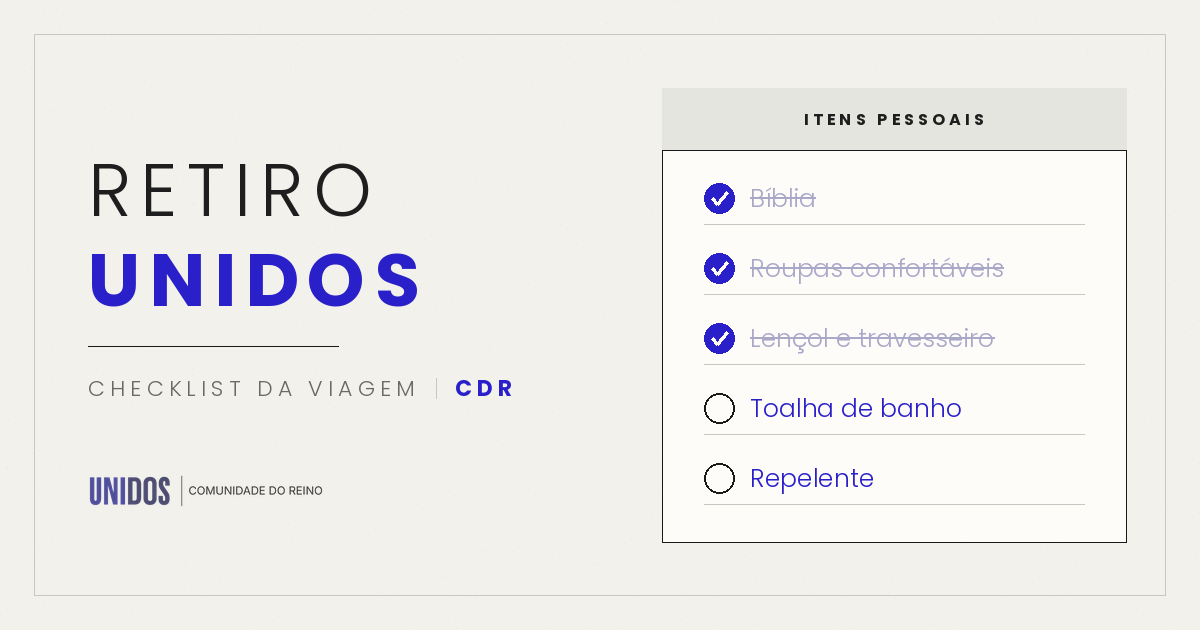
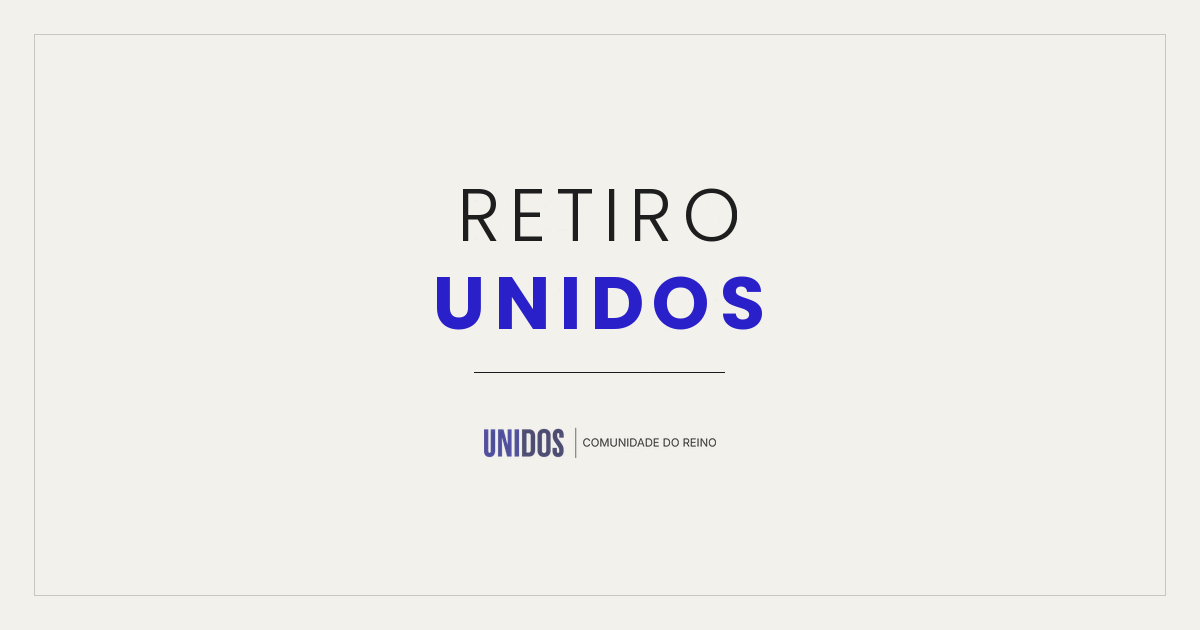
Atualiza og.png: card apenas com Retiro Unidos, sem o painel do checklist

diff --git a/checklist.html b/checklist.html
@@ -20,7 +20,7 @@
 <meta property="og:image:type" content="image/png">
 <meta property="og:image:width" content="1200">
 <meta property="og:image:height" content="630">
-<meta property="og:image:alt" content="Retiro Unidos — checklist da viagem, Comunidade do Reino">
+<meta property="og:image:alt" content="Retiro Unidos — Comunidade do Reino">
 
 <meta name="twitter:card" content="summary_large_image">
 <meta name="twitter:title" content="Checklist · Retiro Unidos - CDR">

diff --git a/index.html b/index.html
@@ -20,7 +20,7 @@
 <meta property="og:image:type" content="image/png">
 <meta property="og:image:width" content="1200">
 <meta property="og:image:height" content="630">
-<meta property="og:image:alt" content="Retiro Unidos — cronograma, Comunidade do Reino">
+<meta property="og:image:alt" content="Retiro Unidos — Comunidade do Reino">
 
 <meta name="twitter:card" content="summary_large_image">
 <meta name="twitter:title" content="Retiro Unidos - CDR">
